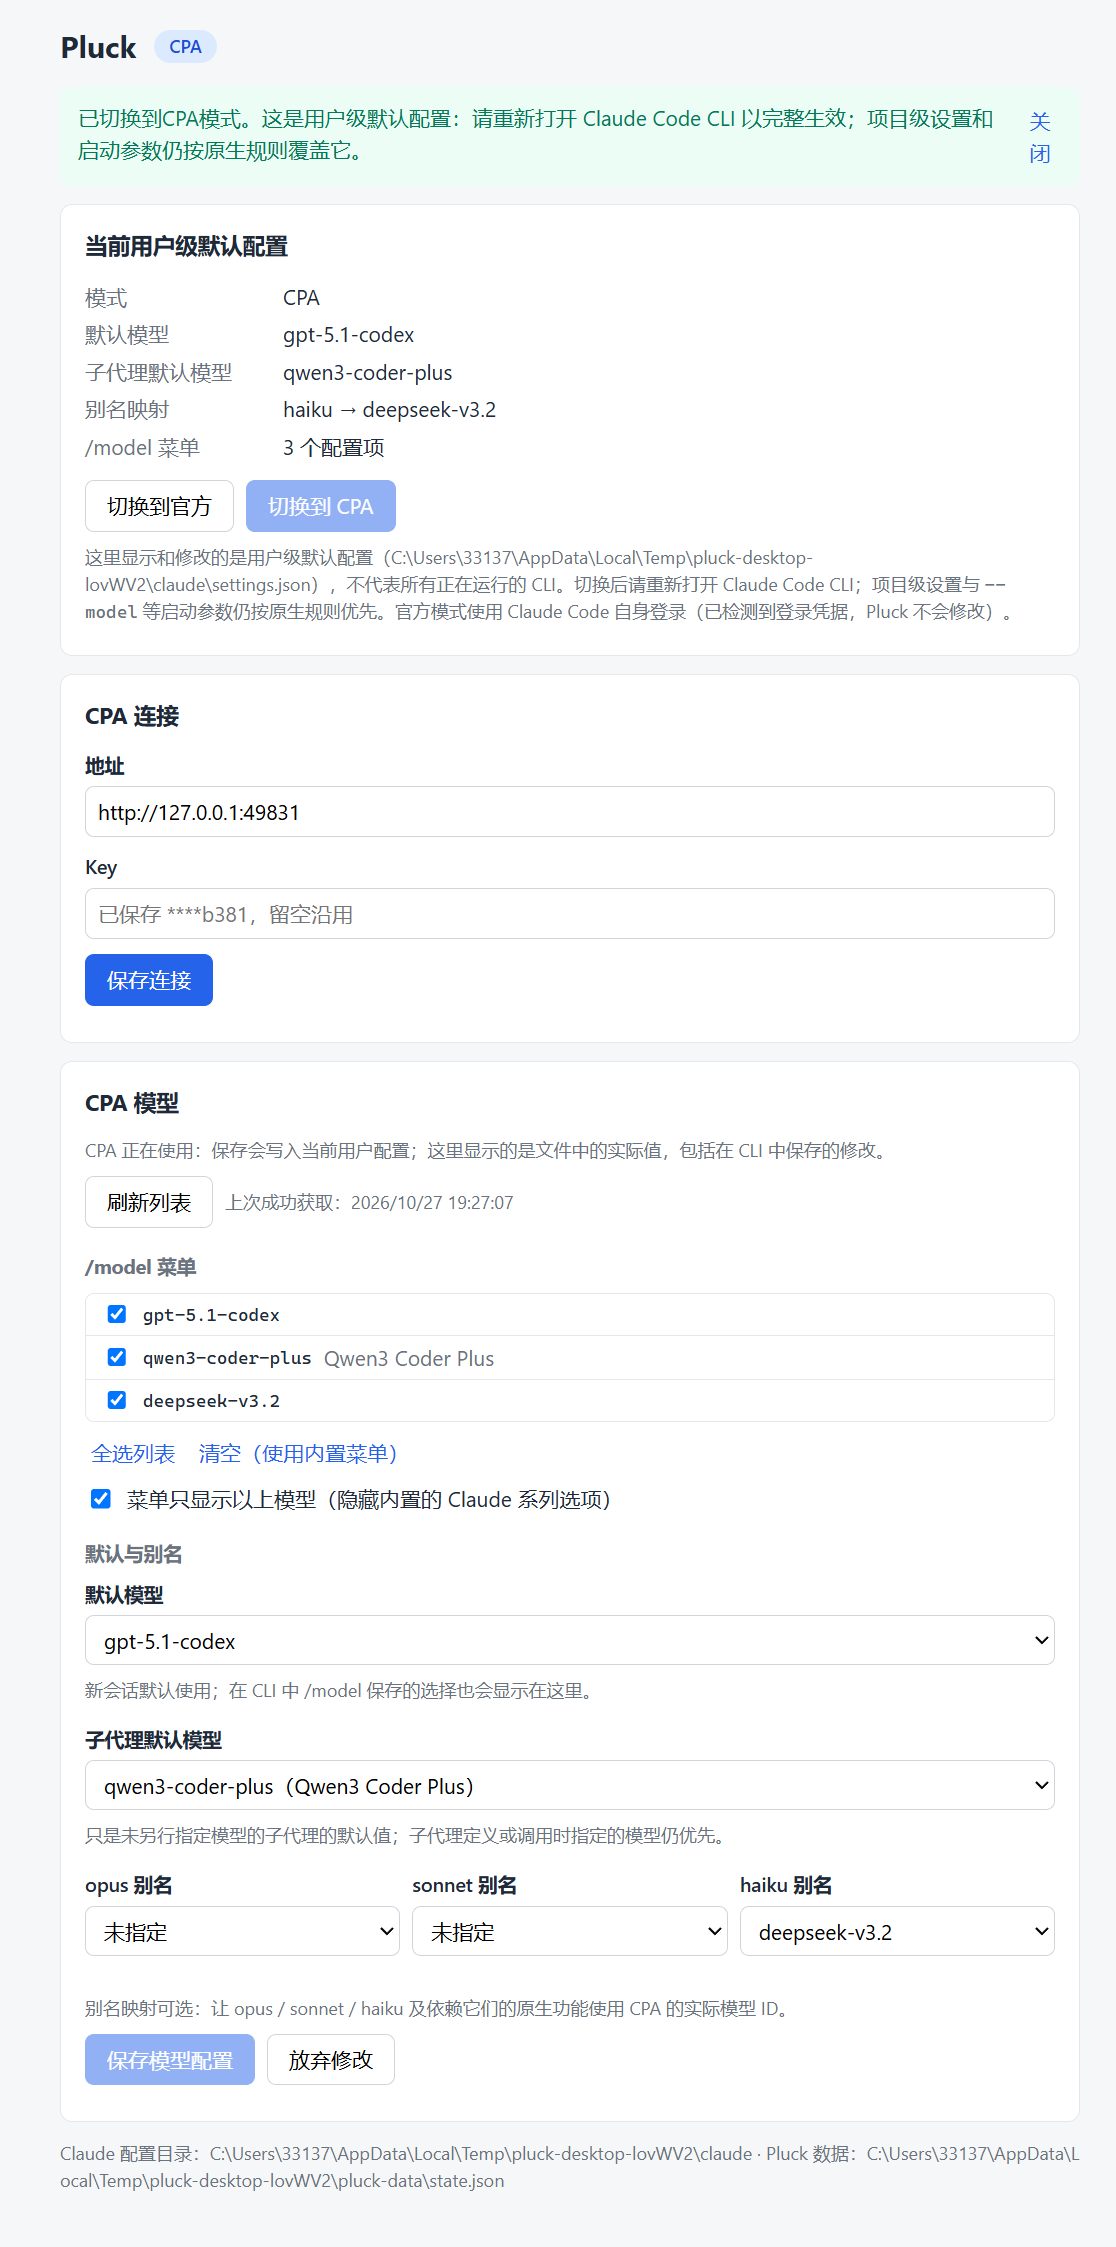
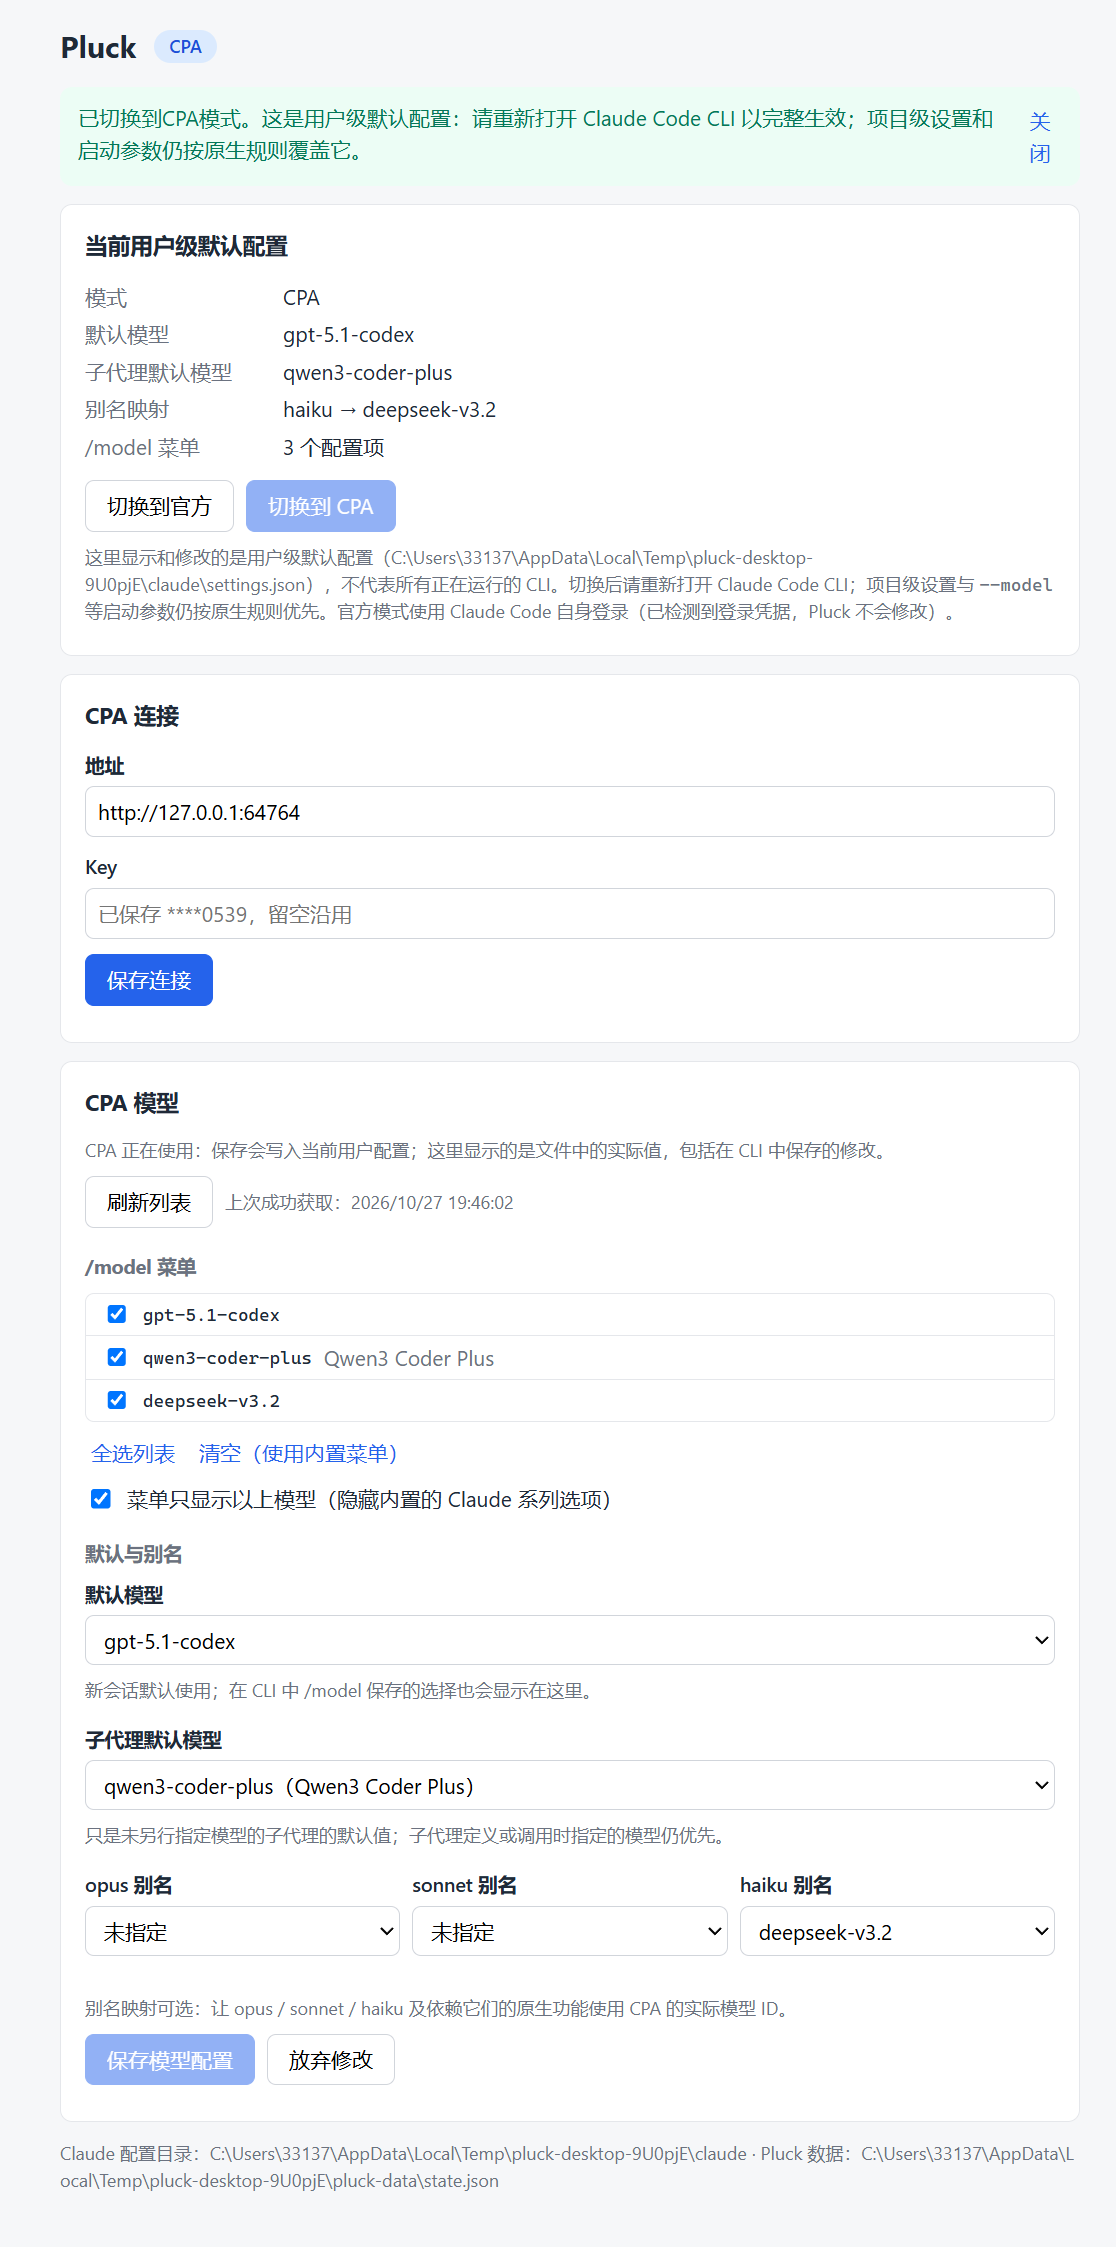
fix(service): 修复改 CPA 地址时的双文件不一致与旧草稿覆盖快照
- CPA 使用中保存新地址：先存本机数据，用户配置写入失败时恢复本机数据
- 非 CPA 模式的模型配置版本改为快照内容摘要，往返切换后旧草稿保存被拒绝
- 补充两项回归测试；重跑 CLI 与桌面验证，更正验证记录中的计数（审查 S1–S3）

Refs: pluck-ehl.1

diff --git a/src-tauri/tests/service_roundtrip.rs b/src-tauri/tests/service_roundtrip.rs
@@ -243,3 +243,80 @@ fn config_dir_resolution() {
     assert_eq!(resolve_claude_dir(Some("  ".into()), Some(home.clone())), Some(home.join(".claude")));
     assert_eq!(resolve_claude_dir(Some("D:/cc".into()), Some(home)), Some(PathBuf::from("D:/cc")));
 }
+
+fn set_readonly(p: &Path, ro: bool) {
+    let mut perm = fs::metadata(p).unwrap().permissions();
+    #[allow(clippy::permissions_set_readonly_false)]
+    perm.set_readonly(ro);
+    fs::set_permissions(p, perm).unwrap();
+}
+
+/// 审查 S1：CPA 使用中更改地址，任一文件写入失败时两份数据保持一致，模式仍可切换。
+#[test]
+fn changing_active_cpa_is_consistent_when_either_file_fails() {
+    let e = setup(json!({"theme": "dark"}));
+    let data = e._root.path().join("pluck-data").join("state.json");
+    let p = e.claude.join("settings.json");
+    e.svc.save_cpa("http://127.0.0.1:18317", Some("k1")).unwrap();
+    e.svc.switch(Mode::Cpa).unwrap();
+
+    // 本机数据不可写。
+    let settings_before = fs::read(&p).unwrap();
+    set_readonly(&data, true);
+    let r = e.svc.save_cpa("http://127.0.0.1:18318", None);
+    set_readonly(&data, false);
+    assert!(matches!(r, Err(Error::Write { .. })), "{r:?}");
+    assert_eq!(fs::read(&p).unwrap(), settings_before, "用户配置不应先被改写");
+    let s = e.svc.status();
+    assert_eq!((s.mode.as_str(), s.cpa_base_url.as_deref()), ("cpa", Some("http://127.0.0.1:18317")));
+
+    // 用户配置不可写：本机数据恢复为原地址。
+    set_readonly(&p, true);
+    let r = e.svc.save_cpa("http://127.0.0.1:18318", None);
+    set_readonly(&p, false);
+    assert!(matches!(r, Err(Error::Write { .. })), "{r:?}");
+    assert_eq!(fs::read(&p).unwrap(), settings_before);
+    let s = e.svc.status();
+    assert_eq!((s.mode.as_str(), s.cpa_base_url.as_deref()), ("cpa", Some("http://127.0.0.1:18317")));
+
+    // 失败后仍能正常切换。
+    assert_eq!(e.svc.switch(Mode::Official).unwrap().status.mode, "official");
+}
+
+/// 审查 S2：官方模式下打开的旧草稿，在往返切换记录了 CLI 保存的 Y 之后不能覆盖 Y。
+#[test]
+fn stale_snapshot_draft_cannot_overwrite_cli_saved_model() {
+    let e = setup(json!({"theme": "dark"}));
+    let p = e.claude.join("settings.json");
+    e.svc.save_cpa("http://127.0.0.1:18317", Some("k")).unwrap();
+    let v = e.svc.model_view().unwrap();
+    e.svc.save_model_config(&ModelConfig { default_model: Some("model-X".into()), ..Default::default() }, &v.revision).unwrap();
+
+    // 窗口在官方模式下读取（草稿基于 X）。
+    let draft = e.svc.model_view().unwrap();
+    assert_eq!(draft.source, "saved");
+
+    // 托盘切到 CPA，CLI 保存 Y，托盘切回官方。
+    e.svc.switch(Mode::Cpa).unwrap();
+    let mut s = read(&p);
+    s["model"] = json!("model-Y");
+    fs::write(&p, s.to_string()).unwrap();
+    e.svc.switch(Mode::Official).unwrap();
+
+    // 旧草稿保存被拒绝，快照仍为 Y。
+    let r = e.svc.save_model_config(
+        &ModelConfig { default_model: Some("model-X".into()), subagent_model: Some("z".into()), ..Default::default() },
+        &draft.revision,
+    );
+    assert!(matches!(r, Err(Error::Refused(_))), "{r:?}");
+    let fresh = e.svc.model_view().unwrap();
+    assert_eq!(fresh.config.default_model.as_deref(), Some("model-Y"));
+    assert_ne!(fresh.revision, draft.revision);
+
+    // 用最新版本保存可以成功；切回 CPA 后为 Y。
+    e.svc.save_model_config(&ModelConfig { subagent_model: Some("z".into()), ..fresh.config.clone() }, &fresh.revision).unwrap();
+    e.svc.switch(Mode::Cpa).unwrap();
+    let s = read(&p);
+    assert_eq!(s["model"], "model-Y");
+    assert_eq!(s["env"]["CLAUDE_CODE_SUBAGENT_MODEL"], "z");
+}

diff --git a/src-tauri/src/service.rs b/src-tauri/src/service.rs
@@ -93,6 +93,12 @@ fn key_hint(key: &str) -> String {
     format!("****{tail}")
 }
 
+/// 已保存 CPA 模型设置的版本：内容变化即版本变化，与实时文件版本互不相同。
+fn snapshot_revision(snapshot: &Option<Map<String, Value>>) -> String {
+    let text = snapshot.as_ref().map(|m| Value::Object(m.clone()).to_string()).unwrap_or_default();
+    format!("saved:{}", settings_file::revision_of(text.as_bytes()))
+}
+
 fn now_secs() -> u64 {
     SystemTime::now().duration_since(UNIX_EPOCH).map(|d| d.as_secs()).unwrap_or(0)
 }
@@ -256,11 +262,22 @@ impl Service {
             st.state.models.clear();
             st.state.models_fetched_at = None;
         }
+        let previous = st.state.clone();
         st.state.cpa = Some(CpaProfile { base_url: url.clone(), api_key: key.clone() });
         if live_is_cpa {
-            let doc = managed::apply(&loaded.doc, &managed::extract_model_fields(&loaded.doc), Some((&url, &key)));
-            settings_file::save(&loaded, &doc)?;
+            // 两个文件必须一致：先保存本机数据，用户配置写入失败时恢复本机数据，
+            // 使已保存的 CPA 地址始终与 settings.json 中的连接相符。
             self.store.save(&mut st)?;
+            let doc = managed::apply(&loaded.doc, &managed::extract_model_fields(&loaded.doc), Some((&url, &key)));
+            if let Err(e) = settings_file::save(&loaded, &doc) {
+                st.state = previous;
+                if let Err(restore) = self.store.save(&mut st) {
+                    return Err(Error::Refused(format!(
+                        "{e}；恢复 Pluck 本机数据也失败（{restore}），请在问题解决后重新保存 CPA 连接。"
+                    )));
+                }
+                return Err(e);
+            }
             return Ok(self.done(format!("CPA 连接已保存，并已更新当前用户配置。{RELAUNCH_HINT}")));
         }
         self.store.save(&mut st)?;
@@ -303,7 +320,7 @@ impl Service {
                 loaded.revision.clone().unwrap_or_default(),
             )
         } else {
-            (st.snapshots.cpa.clone().unwrap_or_default(), "saved", "saved".to_string())
+            (st.snapshots.cpa.clone().unwrap_or_default(), "saved", snapshot_revision(&st.snapshots.cpa))
         };
         Ok(ModelView {
             config: managed::read_model_config(&fields),
@@ -321,9 +338,15 @@ impl Service {
         let loaded = settings_file::load(&self.settings_path())?;
         let cpa_url = st.state.cpa.as_ref().map(|p| p.base_url.clone());
         let live = managed::detect(&loaded.doc, cpa_url.as_deref()) == Detected::Cpa;
-        let expected = if live { loaded.revision.clone().unwrap_or_default() } else { "saved".into() };
-        if revision != expected {
-            return Err(Error::Conflict { path: self.settings_path() });
+        if live {
+            if revision != loaded.revision.clone().unwrap_or_default() {
+                return Err(Error::Conflict { path: self.settings_path() });
+            }
+        } else if revision != snapshot_revision(&st.state.snapshots.cpa) {
+            // 窗口打开后 CPA 设置已更新（例如往返切换时记录了 CLI 保存的模型），旧草稿不能覆盖它。
+            return Err(Error::Refused(
+                "CPA 模型配置在窗口打开后已更新（例如切换模式时记录了 CLI 保存的修改），未保存。请点“放弃修改”读取最新值后再改。".into(),
+            ));
         }
         if live {
             let mut doc = loaded.doc.clone();

diff --git a/docs/verification/desktop-report.md b/docs/verification/desktop-report.md
@@ -1,9 +1,9 @@
 # 桌面验证报告
 
-- 时间：2026-10-27T11:32:42.536Z
+- 时间：2026-10-27T11:48:03.980Z
 - 操作系统：Windows 11 Pro 10.0.26200；AMD Ryzen 5 5600X 6-Core Processor             ，12 个逻辑核，内存 80 GiB
 - Claude Code：2.1.311 (Claude Code)
-- 产物：src-tauri\target\release\pluck.exe（4.8 MiB）
+- 产物：src-tauri\target\release\pluck.exe（4.9 MiB）
 - 结果：34/34 通过
 
 ## 检查
@@ -31,16 +31,16 @@
 | A5/A7 | 外部保存的默认模型自动显示在托盘 | 通过 | Pluck · CPA · qwen3-coder-plus |
 | A4/A5 | 模型控件显示实时文件中的 Y | 通过 | qwen3-coder-plus |
 | A3/A6 | 刷新失败在窗口提示并保留原列表 | 通过 | CPA 模型列表获取失败，已保留原列表：HTTP 500 Internal Server Error：{"error":"upstream unavailable"} 关闭 |
-| A6 | 窗口切换遇只读文件时提示失败且原文件不变 | 通过 | 写入 C:\Users\33137\AppData\Local\Temp\pluck-desktop-lovWV2\claude\settings.json 失败，原文件未改动：文件为只读 关闭 |
+| A6 | 窗口切换遇只读文件时提示失败且原文件不变 | 通过 | 写入 C:\Users\33137\AppData\Local\Temp\pluck-desktop-9U0pjE\claude\settings.json 失败，原文件未改动：文件为只读 关闭 |
 | A6 | 托盘菜单显示上次操作失败原因 | 通过 | 上次操作：失败：写入 C:\Users\33137\AppData\Local\Temp\pluck-de… |
 | A6 | 托盘切换遇只读文件时原文件不变、状态仍为 CPA | 通过 |  |
-| A6 | 托盘失败结果同步到窗口 | 通过 | 托盘：写入 C:\Users\33137\AppData\Local\Temp\pluck-desktop-lovWV2\claude\settings.json 失败，原文件未改动：文件为只读 关闭 |
+| A6 | 托盘失败结果同步到窗口 | 通过 | 托盘：写入 C:\Users\33137\AppData\Local\Temp\pluck-desktop-9U0pjE\claude\settings.json 失败，原文件未改动：文件为只读 关闭 |
 | A6 | 损坏的配置在窗口与托盘显示为无法读取 | 通过 |  |
-| A6 | 损坏时托盘显示无法读取、切换项不可用，文件不被覆盖 | 通过 | 用户配置无法读取 / C:\Users\33137\AppData\Local\Temp\pluck-desktop-lovWV2\claud… / 切换到官方 / 切换到 CPA / 上次操作：失败：写入 C:\Users\33137\AppData\Local\Temp\pluck-de… / 打开配置窗口 / 退出 Pluck |
+| A6 | 损坏时托盘显示无法读取、切换项不可用，文件不被覆盖 | 通过 | 用户配置无法读取 / C:\Users\33137\AppData\Local\Temp\pluck-desktop-9U0pjE\claud… / 切换到官方 / 切换到 CPA / 上次操作：失败：写入 C:\Users\33137\AppData\Local\Temp\pluck-de… / 打开配置窗口 / 退出 Pluck |
 | A1 | 关闭窗口后窗口隐藏、Pluck 仍在托盘常驻 | 通过 |  |
 | A1 | 托盘单击重新打开配置窗口 | 通过 |  |
 | A1 | 托盘“退出 Pluck”结束进程 | 通过 |  |
-| A1 | 重开后读回 CPA 模式、地址、模型与列表 | 通过 | http://127.0.0.1:49831, 3 |
+| A1 | 重开后读回 CPA 模式、地址、模型与列表 | 通过 | http://127.0.0.1:64764, 3 |
 | A1 | 重开后托盘状态正确 | 通过 | Pluck · CPA · qwen3-coder-plus |
 | A2 | 最终切回官方：其他设置保留，凭据不变 | 通过 |  |
 | D3 | 本机数据保存 Key，官方模式用户配置不含 Key | 通过 |  |
@@ -49,14 +49,14 @@
 
 | 项目 | 数值 |
 | --- | --- |
-| 首次：启动到窗口显示状态 | 8945 ms |
-| 获取模型列表响应 | 120 ms |
-| 窗口切换官方→CPA（点击到结果显示） | 457 ms |
-| 托盘切换 CPA→官方（点击菜单到文件写入） | 310 ms |
-| 托盘切换 官方→CPA（点击菜单到文件写入） | 232 ms |
-| 重开：启动到窗口显示状态 | 3152 ms |
-| 正常启动到窗口出现（无远程调试） | 1822 ms |
-| 窗口打开时：进程数 / 工作集 / 专用内存 | 7 / 389.2 MiB / 424.4 MiB |
-| 托盘常驻（窗口关闭 30 秒后）：进程数 / 工作集 / 专用内存 | 7 / 400.4 MiB / 425.6 MiB |
-| 其中 pluck.exe 主进程：工作集 / 专用内存 | 40.0 MiB / 64.5 MiB |
-| 托盘常驻 CPU（10 秒采样） | 0.00%（占 12 个逻辑核） |
+| 首次：启动到窗口显示状态 | 2651 ms |
+| 获取模型列表响应 | 58 ms |
+| 窗口切换官方→CPA（点击到结果显示） | 59 ms |
+| 托盘切换 CPA→官方（点击菜单到文件写入） | 170 ms |
+| 托盘切换 官方→CPA（点击菜单到文件写入） | 188 ms |
+| 重开：启动到窗口显示状态 | 3892 ms |
+| 正常启动到窗口出现（无远程调试） | 1154 ms |
+| 窗口打开时：进程数 / 工作集 / 专用内存 | 7 / 383.4 MiB / 402.8 MiB |
+| 托盘常驻（窗口关闭 30 秒后）：进程数 / 工作集 / 专用内存 | 7 / 398.6 MiB / 405.5 MiB |
+| 其中 pluck.exe 主进程：工作集 / 专用内存 | 40.1 MiB / 64.7 MiB |
+| 托盘常驻 CPU（10 秒采样） | 0.01%（占 12 个逻辑核） |

diff --git a/docs/verification/first-release.md b/docs/verification/first-release.md
@@ -6,24 +6,24 @@
 
 | 入口 | 覆盖 | 结果 |
 | --- | --- | --- |
-| `pnpm test:rust` | 读写校验、BOM/CRLF、外部修改、只读、Windows 文件占用、切换往返与字段保留、未知连接拒写、CPA 响应解析与失败 | 26 项通过 |
+| `pnpm test:rust` | 读写校验、BOM/CRLF、外部修改、只读、Windows 文件占用、切换往返与字段保留、未知连接拒写、CPA 使用中改地址时任一文件写入失败的一致性、旧草稿不覆盖往返中记录的 CLI 保存值、CPA 响应解析与失败 | 28 项通过 |
 | `pnpm verify:cli` | CPA 替身 + 服务层 + 真实 CLI：列表获取与失败、`/model` 菜单显示与选择实际 ID、CLI 保存的 Y 在往返与重开后保留、会话临时选择不落盘、项目级与 `--model` 覆盖、凭据不变 | 32/32，[报告](cli-report.md) |
-| `pnpm verify:desktop` | `pluck.exe` 实际运行：窗口编辑与切换、托盘状态/菜单/切换/打开/退出、外部修改同步、列表获取失败、只读与损坏文件、关闭后常驻、重开读回 | 37/37，[报告](desktop-report.md) |
+| `pnpm verify:desktop` | `pluck.exe` 实际运行：窗口编辑与切换、托盘状态/菜单/切换/打开/退出、外部修改同步、列表获取失败、只读与损坏文件、关闭后常驻、重开读回 | 34/34，[报告](desktop-report.md) |
 | `pnpm tauri build` | 构建 `pluck.exe` 与 NSIS 安装包 `Pluck_0.1.0_x64-setup.exe`（1.9 MiB） | 成功 |
 
 截图：[模型配置](desktop/window-models.png)、[CPA 状态](desktop/window-cpa.png)、[写入失败提示](desktop/window-write-failure.png)、[重开读回](desktop/window-reopened.png)、[托盘菜单](desktop/tray-menu-cpa.png)、[托盘失败结果](desktop/tray-menu-failure.png)、[配置损坏时的托盘](desktop/tray-menu-corrupt.png)。
 
 ## 观测
 
-取自桌面报告（同一台机器单次运行，非基准测试）：
+取自本机两次桌面验证运行（审查前后各一次，非基准测试），链接的报告为最近一次：
 
 | 项目 | 数值 |
 | --- | --- |
-| 正常启动到窗口出现 | 约 1.8 s；开远程调试的首次启动 3–9 s（含 WebView2 建立用户数据目录） |
+| 正常启动到窗口出现 | 1.2–1.8 s；开远程调试的首次启动 2.7–9 s（含 WebView2 建立用户数据目录） |
 | 窗口切换官方→CPA（点击到结果显示） | 60–460 ms |
-| 托盘切换（点击菜单到文件写入） | 230–310 ms |
+| 托盘切换（点击菜单到文件写入） | 170–310 ms |
 | 获取模型列表（本机替身） | 60–280 ms |
-| 托盘常驻（窗口关闭 30 秒后） | 7 个进程，专用内存合计约 426 MiB，其中 `pluck.exe` 约 65 MiB，其余为 WebView2 进程；CPU 约 0% |
+| 托盘常驻（窗口关闭 30 秒后） | 7 个进程，专用内存合计约 405–426 MiB，其中 `pluck.exe` 约 65 MiB，其余为 WebView2 进程；CPU 约 0% |
 
 窗口隐藏后 WebView2 进程仍常驻，占用了常驻内存的大部分；是否在隐藏时释放 WebView 留待实际使用反馈。
 

diff --git a/docs/verification/cli-report.md b/docs/verification/cli-report.md
@@ -1,6 +1,6 @@
 # CLI 隔离验证报告
 
-- 时间：2026-10-27T11:07:35.370Z
+- 时间：2026-10-27T11:45:52.584Z
 - 操作系统：Windows 11 Pro 10.0.26200
 - Claude Code：2.1.311 (Claude Code)
 - 结果：32/32 通过
@@ -34,7 +34,7 @@
 | A7 | 启动参数 --model 覆盖用户级默认 | 通过 | gpt-5.1-codex |
 | A7 | 切换不改写项目级设置 | 通过 |  |
 | A4 | 取消子代理默认与别名后移除对应原生配置 | 通过 |  |
-| A6 | 损坏的 settings.json 拒绝切换且不被覆盖 | 通过 | C:\Users\33137\AppData\Local\Temp\pluck-verify-Gy0X8y\claude\settings.json 无法解析，已停止写入以免覆盖原有设置：EOF while parsing a value at line 1 column 21 |
+| A6 | 损坏的 settings.json 拒绝切换且不被覆盖 | 通过 | C:\Users\33137\AppData\Local\Temp\pluck-verify-gZcrZ5\claude\settings.json 无法解析，已停止写入以免覆盖原有设置：EOF while parsing a value at line 1 column 21 |
 | A6 | 损坏时状态显示为无法读取 | 通过 |  |
 | A6 | 恢复文件后可继续读取 | 通过 |  |
 | A2 | 全程官方凭据文件不变 | 通过 |  |
